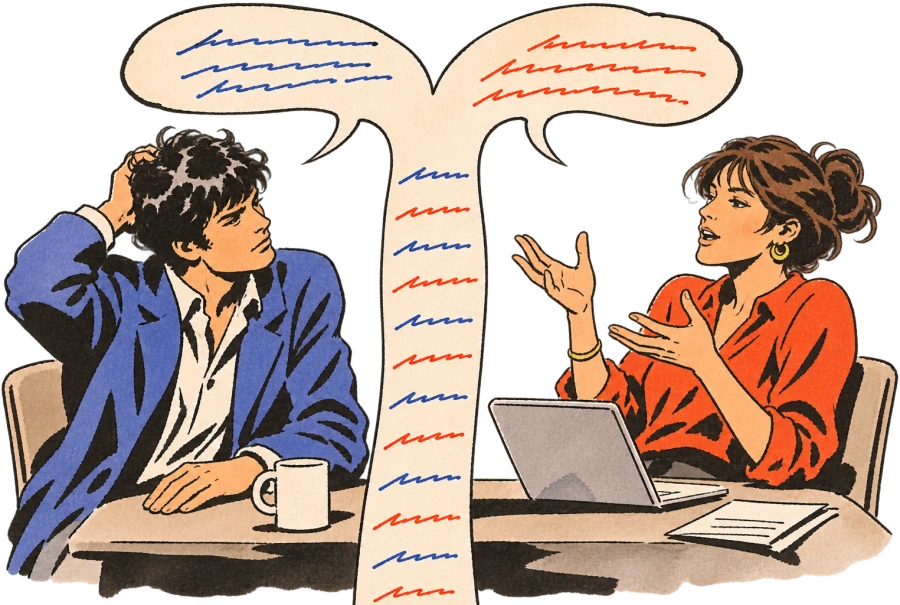
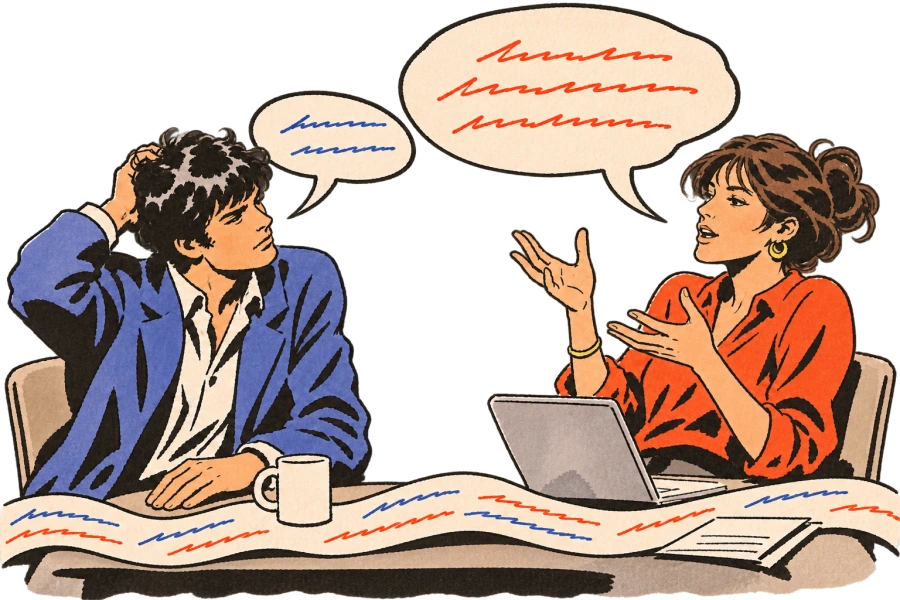
Site : réunion avec deux bulles séparées et la transcription à plat sur la table

diff --git a/index.html b/index.html
@@ -165,7 +165,7 @@
     <div class="col">
       <div class="intro">
         <p class="tag">En présentiel</p>
-        <img class="meeting" src="img/reunion.webp?v=7" width="900" height="605" alt="Deux personnes dessinées à l'encre et à l'aquarelle, face à face à une table : lui, en veste bleue, se gratte la tête ; elle, en chemise vermillon, parle avec les mains ; leurs bulles se rejoignent en une bande de papier qui descend, où leurs lignes alternent dans leurs couleurs.">
+        <img class="meeting" src="img/reunion.webp?v=8" width="900" height="600" alt="Deux personnes dessinées à l'encre et à l'aquarelle, face à face à une table : lui, en veste bleue, se gratte la tête ; elle, en chemise vermillon, parle avec les mains ; chacun a sa bulle ; sur la table, une bande de papier où leurs lignes alternent dans leurs couleurs.">
         <h2>Pas besoin d'être connecté, transcrivez vos échanges IRL</h2>
         <p>Un rendez-vous dans une salle, sans visio&nbsp;: le Mac posé sur la table suffit, la conversation est transcrite comme un appel.</p>
       </div>
